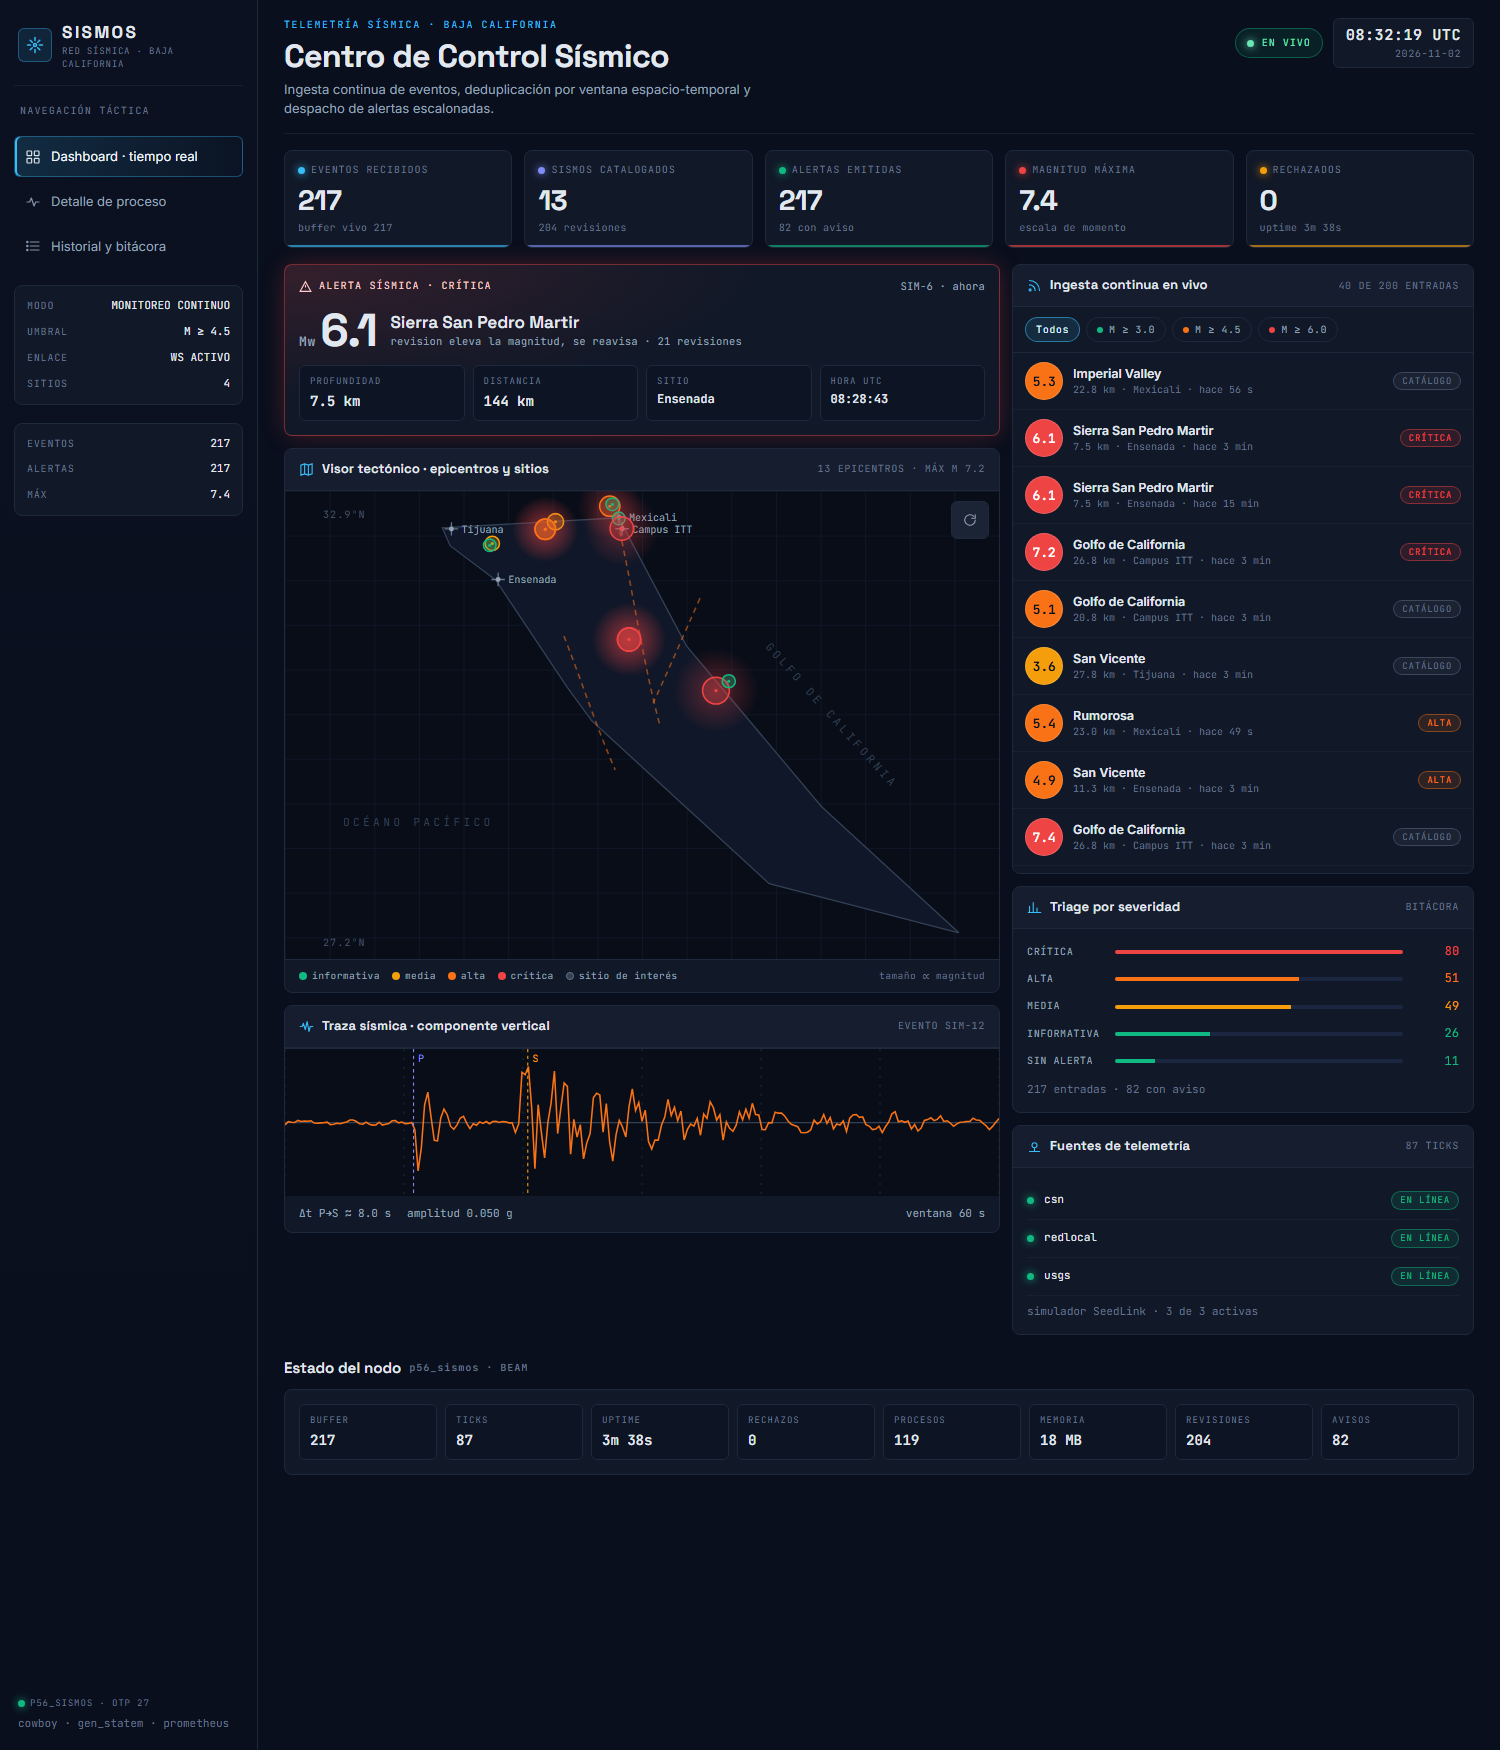
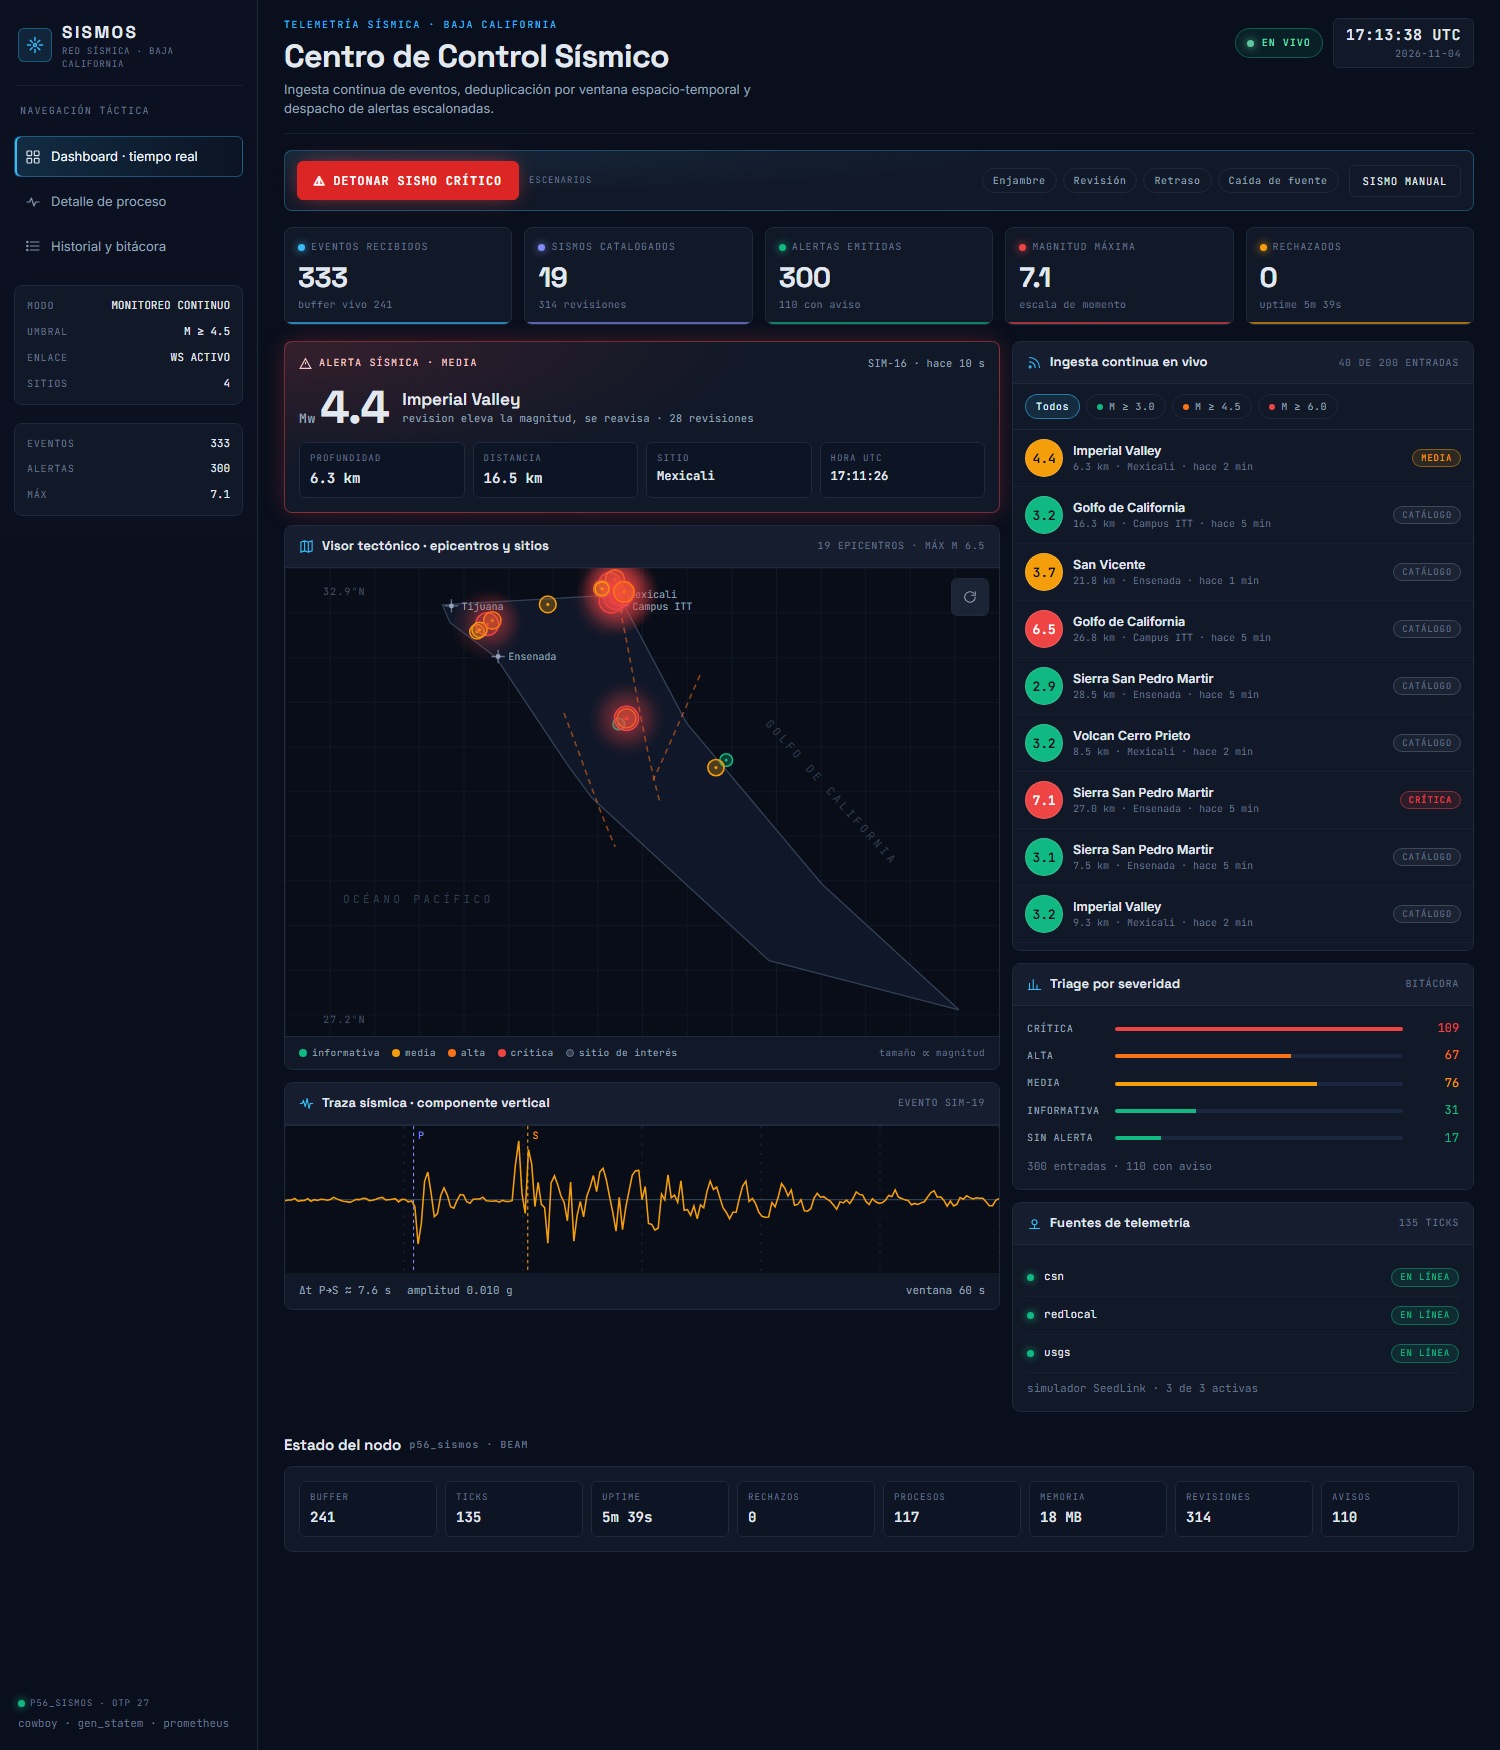
56-sismos: demo interactivo y fix de plausibilidad fisica
- Barra de demo en / y /proceso: boton Detonar sismo critico (M6.5 Mexicali,
  nivel critico), chips de escenarios (enjambre/revision/atraso/caida) y
  formulario de sismo manual; todo frontend sobre POST /api/eventos|simular
- Fix magnitud desbocada del simulador (M10.8 observado): clamp en
  revision_de a [1.0, 8.2] y tope de 6 revisiones por evento en p56_fuentes;
  rango de validacion [−1.0, 9.5] en p56_eventos; max del formulario 9.5
- Capturas finales actualizadas en capturas/

diff --git a/proyectos/56-sismos/priv/static/js/app.js b/proyectos/56-sismos/priv/static/js/app.js
@@ -282,5 +282,122 @@
     return marcas;
   };
 
+  /* ---------------------------------------------------------------- demo */
+
+  /* POST JSON generico para las acciones del demo (api/eventos y
+     api/simular); devuelve el cuerpo o lanza Error con el detalle. */
+  App.postJson = function (ruta, cuerpo) {
+    return fetch(ruta, {
+      method: "POST",
+      headers: { "content-type": "application/json" },
+      body: JSON.stringify(cuerpo)
+    }).then(function (resp) {
+      if (!resp.ok) throw new Error("HTTP " + resp.status + " en " + ruta);
+      return resp.json();
+    });
+  };
+
+  /* Inyecta un evento directamente en la API; el nivel y el aviso se
+     calculan en el backend (p56_niveles) con la misma logica del flujo
+     simulado, asi que el resultado es identico a un evento real. */
+  App.inyectarEvento = async function (cuerpo) {
+    const t = Math.floor(Date.now() / 1000);
+    return App.postJson("/api/eventos", Object.assign({
+      source: "demo",
+      source_id: "demo-" + t,
+      t: t
+    }, cuerpo));
+  };
+
+  /* Detona un M6.5 a ~25 km de Mexicali / Campus ITT: nivel critico
+     garantizado (M >= 5.5), aparece toast + flash en el dashboard. */
+  App.demoDetonar = async function (boton) {
+    if (boton) boton.disabled = true;
+    try {
+      await App.inyectarEvento({
+        mag: 6.5, lat: 32.52, lon: -115.44, lugar: "Mexicali (demo)"
+      });
+      App.toast("Sismo crítico inyectado", "M 6.5 en Mexicali · mantente atento al toast de alerta crítica", "info");
+    } catch (e) {
+      App.toast("No se pudo detonar", String(e.message || e));
+    }finally {
+      if (boton) setTimeout(function () { boton.disabled = false; }, 1200);
+    }
+  };
+
+  /* Lanza uno de los escenarios del simulador (POST /api/simular). */
+  App.demoEscenario = async function (modo, boton) {
+    if (boton) boton.disabled = true;
+    try {
+      await App.postJson("/api/simular", { modo: modo });
+      App.toast("Escenario lanzado: " + modo,
+        "los eventos entran al pipeline en los próximos segundos", "info");
+    } catch (e) {
+      App.toast("No se pudo lanzar " + modo, String(e.message || e));
+    } finally {
+      if (boton) setTimeout(function () { boton.disabled = false; }, 1200);
+    }
+  };
+
+  /* Formulario de sismo manual: lee los #m-... dentro del form. */
+  App.demoManual = async function (form) {
+    const get = function (id) { return form.querySelector("#" + id); };
+    const mag = parseFloat(get("m-mag").value);
+    const lat = parseFloat(get("m-lat").value);
+    const lon = parseFloat(get("m-lon").value);
+    const lugar = (get("m-lugar").value || "").trim() || "Lugar sin nombre";
+
+    if (isNaN(mag) || mag < 1 || mag > 9.5) {
+      App.toast("Magnitud inválida", "debe estar entre 1.0 y 9.5");
+      return;
+    }
+    if (isNaN(lat) || isNaN(lon)) {
+      App.toast("Coordenadas inválidas", "lat y lon deben ser números");
+      return;
+    }
+
+    const boton = form.querySelector("button[type=submit]");
+    if (boton) boton.disabled = true;
+    try {
+      await App.inyectarEvento({ mag: mag, lat: lat, lon: lon, lugar: lugar });
+      App.toast("Evento inyectado", "M " + mag.toFixed(1) + " en " + lugar + " · visible en segundos", "info");
+      form.reset();
+      form.classList.remove("open");
+    } catch (e) {
+      App.toast("No se pudo inyectar", String(e.message || e));
+    } finally {
+      if (boton) setTimeout(function () { boton.disabled = false; }, 1200);
+    }
+  };
+
+  /* Conecta los controles del demo a los ids estandar del HTML.
+     Todos los ids son opcionales: solo se conectan si existen. */
+  App.demoBind = function (opciones) {
+    const o = opciones || {};
+    const porId = function (id) { return document.getElementById(id); };
+
+    const detonar = porId(o.idDetonar || "btn-critico");
+    if (detonar) detonar.addEventListener("click", function () {
+      App.demoDetonar(detonar);
+    });
+
+    const escenarios = porId(o.idEscenarios || "demo-escenarios");
+    if (escenarios) escenarios.addEventListener("click", function (ev) {
+      const chip = ev.target.closest(".chip");
+      if (!chip) return;
+      App.demoEscenario(chip.getAttribute("data-modo") || chip.dataset.modo, chip);
+    });
+
+    const abrir = porId(o.idAbrir || "btn-manual");
+    const form = porId(o.idForma || "form-manual");
+    if (abrir && form) {
+      abrir.addEventListener("click", function () { form.classList.toggle("open"); });
+      form.addEventListener("submit", function (ev) {
+        ev.preventDefault();
+        App.demoManual(form);
+      });
+    }
+  };
+
   window.App = App;
 })();

diff --git a/proyectos/56-sismos/priv/static/css/app.css b/proyectos/56-sismos/priv/static/css/app.css
@@ -764,6 +764,79 @@ table.data tbody tr.is-new td { animation: flash 1.4s ease-out; }
 .stack { display: grid; gap: var(--gap); align-content: start; }
 
 /* --------------------------------------------------------------------------
+   Barra de controles de demo
+   -------------------------------------------------------------------------- */
+
+.demo-bar {
+  display: flex;
+  flex-wrap: wrap;
+  align-items: center;
+  gap: 10px;
+  padding: 10px 12px;
+  border: 1px solid rgba(56, 189, 248, .30);
+  border-radius: var(--r-lg);
+  background:
+    radial-gradient(120% 140% at 0% 0%, rgba(56, 189, 248, 0.10), transparent 55%),
+    var(--surface-1);
+  margin-bottom: 16px;
+}
+
+.btn.detonar {
+  background: var(--n-critica-2);
+  border-color: var(--n-critica-2);
+  color: #fff;
+  font-weight: 700;
+  padding: 10px 16px;
+  font-size: 12px;
+  box-shadow: 0 0 22px -6px rgba(239, 68, 68, .85);
+}
+.btn.detonar:hover { background: #ef4444; }
+
+.demo-bar .chips { margin-left: auto; }
+
+.demo-label {
+  font-family: var(--font-mono);
+  font-size: 9px;
+  letter-spacing: .10em;
+  text-transform: uppercase;
+  color: var(--text-faint);
+}
+
+.demo-form {
+  display: none;
+  flex: 1 1 100%;
+  flex-wrap: wrap;
+  gap: 8px;
+  padding-top: 10px;
+  border-top: 1px dashed rgba(56, 189, 248, .25);
+  align-items: flex-end;
+}
+.demo-form.open { display: flex; }
+
+.demo-form label {
+  display: grid;
+  gap: 4px;
+  font-family: var(--font-mono);
+  font-size: 9px;
+  letter-spacing: .09em;
+  text-transform: uppercase;
+  color: var(--text-faint);
+}
+.demo-form input {
+  appearance: none;
+  background: #0d1424;
+  border: 1px solid var(--line);
+  color: var(--text);
+  border-radius: var(--r-md);
+  padding: 7px 9px;
+  font-family: var(--font-mono);
+  font-size: 11.5px;
+  width: 120px;
+  outline: none;
+}
+.demo-form input:focus { border-color: var(--cyan-dim); box-shadow: 0 0 0 2px rgba(56, 189, 248, .15); }
+
+/* --------------------------------------------------------------------------
    Toasts
    -------------------------------------------------------------------------- */
 

diff --git a/proyectos/56-sismos/priv/static/proceso.html b/proyectos/56-sismos/priv/static/proceso.html
@@ -80,6 +80,26 @@
       </div>
     </header>
 
+    <!-- Controles de demo -->
+    <section class="demo-bar" aria-label="Controles de demostración">
+      <button class="btn detonar" id="btn-critico" type="button">⚠ Detonar sismo crítico</button>
+      <span class="demo-label">Escenarios</span>
+      <div class="chips" id="demo-escenarios" role="group" aria-label="Escenarios del simulador">
+        <button class="chip" type="button" data-modo="enjambre">Enjambre</button>
+        <button class="chip" type="button" data-modo="revision">Revisión</button>
+        <button class="chip" type="button" data-modo="atraso">Retraso</button>
+        <button class="chip" type="button" data-modo="caida">Caída de fuente</button>
+      </div>
+      <button class="btn ghost" id="btn-manual" type="button">Sismo manual</button>
+      <form class="demo-form" id="form-manual" autocomplete="off">
+        <label>Magnitud<input type="number" id="m-mag" step="0.1" min="1" max="9.5" value="4.8"></label>
+        <label>Latitud<input type="number" id="m-lat" step="0.01" value="32.52"></label>
+        <label>Longitud<input type="number" id="m-lon" step="0.01" value="-115.44"></label>
+        <label>Lugar<input type="text" id="m-lugar" value="Mexicali" maxlength="40" style="width:170px"></label>
+        <button class="btn primary" type="submit">Inyectar evento</button>
+      </form>
+    </section>
+
     <h2 class="section-title">Árbol de supervisión <span class="mono">p56_sismos_sup · one_for_one</span></h2>
     <section class="proc-grid" id="procesos" aria-live="polite">
       <div class="empty">leyendo procesos…</div>

diff --git a/proyectos/56-sismos/priv/static/index.html b/proyectos/56-sismos/priv/static/index.html
@@ -82,6 +82,26 @@
       </div>
     </header>
 
+    <!-- Controles de demo -->
+    <section class="demo-bar" aria-label="Controles de demostración">
+      <button class="btn detonar" id="btn-critico" type="button">⚠ Detonar sismo crítico</button>
+      <span class="demo-label">Escenarios</span>
+      <div class="chips" id="demo-escenarios" role="group" aria-label="Escenarios del simulador">
+        <button class="chip" type="button" data-modo="enjambre">Enjambre</button>
+        <button class="chip" type="button" data-modo="revision">Revisión</button>
+        <button class="chip" type="button" data-modo="atraso">Retraso</button>
+        <button class="chip" type="button" data-modo="caida">Caída de fuente</button>
+      </div>
+      <button class="btn ghost" id="btn-manual" type="button">Sismo manual</button>
+      <form class="demo-form" id="form-manual" autocomplete="off">
+        <label>Magnitud<input type="number" id="m-mag" step="0.1" min="1" max="9.5" value="4.8"></label>
+        <label>Latitud<input type="number" id="m-lat" step="0.01" value="32.52"></label>
+        <label>Longitud<input type="number" id="m-lon" step="0.01" value="-115.44"></label>
+        <label>Lugar<input type="text" id="m-lugar" value="Mexicali" maxlength="40" style="width:170px"></label>
+        <button class="btn primary" type="submit">Inyectar evento</button>
+      </form>
+    </section>
+
     <!-- KPIs -->
     <section class="kpis" aria-label="Indicadores del sistema">
       <div class="kpi" style="--accent:#38bdf8">

diff --git a/proyectos/56-sismos/priv/static/js/proceso.js b/proyectos/56-sismos/priv/static/js/proceso.js
@@ -239,6 +239,9 @@
   function init() {
     A.reloj($("reloj"), $("fecha"));
 
+    /* Controles de demo compartidos (detonar / escenarios / manual). */
+    A.demoBind();
+
     $("escenarios").addEventListener("click", function (ev) {
       const boton = ev.target.closest(".chip");
       if (!boton) return;

diff --git a/proyectos/56-sismos/priv/static/js/dashboard.js b/proyectos/56-sismos/priv/static/js/dashboard.js
@@ -309,6 +309,9 @@
   function init() {
     A.reloj($("reloj"), $("fecha"));
 
+    /* Controles de demo: detonar, escenarios y sismo manual. */
+    A.demoBind();
+
     $("feed-filtros").addEventListener("click", function (ev) {
       const boton = ev.target.closest(".chip");
       if (!boton) return;

diff --git a/proyectos/56-sismos/README.md b/proyectos/56-sismos/README.md
@@ -158,4 +158,9 @@ el supervisor lo reinicia y el proceso vuelve a responder.
 - [x] 3 pantallas UI servidas y verificadas headless
 - [x] Release generado y arrancado
 - [x] Prueba de caos
-- [ ] Capturas finales de la app real (pantallas tomadas con Chrome headless en los últimos datos simulados) — en `capturas/`
+- [x] Mejoras de demo: botón "Detonar sismo crítico", chips de escenarios y
+      formulario de sismo manual en `/` y `/proceso` (solo frontend + API existente)
+- [x] Fix de plausibilidad física: magnitud del simulador acotada a
+      [1.0, 8.2] con tope de revisiones por evento (`p56_fuentes`); rango de
+      validación [−1.0, 9.5] en `p56_eventos`
+- [x] Capturas finales de la app real en `capturas/`
